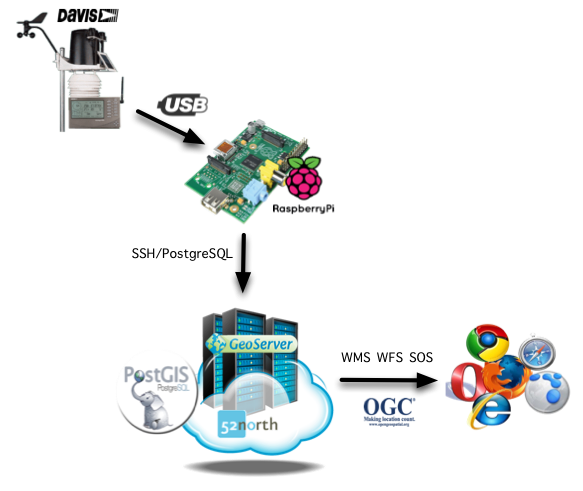
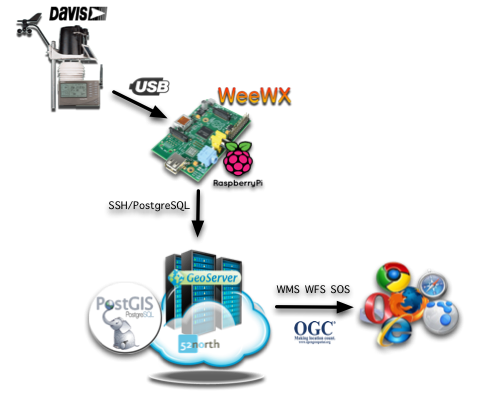
issue #19 more ducmentation

diff --git a/docs/weatherstation.rst b/docs/weatherstation.rst
@@ -3,26 +3,46 @@
 Weather Station
 ===============
 
-As part of the SOSPilot project, the plan is to connect the existing
-Geonovum  `Davis Vantage Pro II Weather station <http://www.davisnet.com/weather/products/vantage-pro-professional-weather-stations.asp>`_
-to the SOS and WMS/WFS servers and public weather services.
-Below the realization and results are described.
+This chapter describes the hard/software setup of a weather station whose measurements are
+to be exposed via OGC protocols like WMS, WFS and in particular SOS.
 
-History
--------
+Introduction
+------------
 
-In 2008/2009 Geonovum had acquired a Davis Vantage Pro II Weather station. This station
-was/is mounted on the roof of Geonovum building. This tsation measures
-barometric pressure, temperature, humidity, rainfall, wind speed and direction. Data from the weather station was extracted and
-published to the 52N SOS. The station is also registered in the national gespatial catalog, Nationaal Georegister (NGR).
+In 2008/2009 Geonovum acquired a
+`Davis Vantage Pro II Weather station <http://www.davisnet.com/weather/products/vantage-pro-professional-weather-stations.asp>`_.
+This station was/is mounted on the roof of Geonovum building. The outside station-sensors measure
+barometric pressure, temperature, humidity, rainfall, wind speed and direction. Data is continuously
+sent (wireless, via RF) to a base station, a.k.a. the "console". The console
+has a `Davis WeatherLink® <http://www.davisnet.com/weather/products/weather-reporting-software.asp>`_
+hard/software add-on that is able to act as a data-logger and provides connectivity over USB.
 
-The results of this project have been described in
+Data from the weather station was extracted and published to the 52N SOS via a special purpose
+PC application. The results of this project have been described in
 a `Geo-Info magazine article (2010-1) <http://www.geo-info.nl/download/?id=15311409&download=1>`_.
+
+As part of the SOSPilot project, we will now "revive" the Davis
+Weather station and connect its data stream to the SOSPilot infrastructure simliar
+to the RIVM AQ datastream. Eventually, the goal is to expose the station weather data to OGC services like
+WMS, WFS and in particular SOS.
+
+As we cannot connect the weather base station (USB),
+directly to the SOSPilot server "in the cloud",
+an intermediate "middleman" hard/software component will be required.
+The main functions of this component are to acquire data from the base station and to
+transform and publish this data to the SOSPilot server (VPS).
+
+To this end a `Raspberry Pi <http://www.raspberrypi.org/>`_ (RPi) microcomputer has been chosen.
+The RPi is a cheap (around $25,-) credit-card-sized microcomputer that can run free OS-es like Linux (`Raspbian <http://www.raspbian.org/>`_,
+a Debian version)
+and allows connectivity to USB, WIFI, GSM etc. The RPi is
+`popular with weather amateurs <https://www.google.nl/search?q=Raspberry+Pi+Weather+Station&oq=Raspberry+Pi+Weather+Station>`_
+(and various other IoT projects as well).
 
 Architecture
 ------------
 
-The overall architecture is depicted in Figure 1 below.
+The overall hard/software architecture is depicted below.
 
 
 .. figure:: _static/weather-hwsw-pictarch.png
@@ -30,67 +50,35 @@ The overall architecture is depicted in Figure 1 below.
 
    *Figure 1 - Global Setup from Weather Station Through OGC Services*
 
-In summary the overall architecture in hard/software is as follows.
+Summarized, the components and their interconnections operate as follows.
+
 The Davis weather station is connected to a `Raspberry Pi <http://www.raspberrypi.org/>`_ (RPi) micro computer via
 USB. The RPi runs the Raspbian OS with the weather data software
-deamon `weewx <http://weewx.com>`_.  ``weewx`` reads out the raw weather from the Davis weather station
-and stores this data locally in a (SQLite)  `weather archive database`.
+`weewx <http://weewx.com>`_.  The weewx daemon reads out raw weather data from the Davis weather station
+and stores this data locally in a (SQLite or MySQL) database. These raw measurements, typically a 5-minute summary
+of multiple samples ("Loop records") are called `archive records`.
 
 An ETL process based on `Stetl <http:/www.stetl.org>`_ transforms and syncs data
 from the `weather archive database` to a remote PostgreSQL server
 in a "Cloud Server" (Ubuntu VPS). The VPS runs GeoServer that serves the weather data directly from the Postgres/PostGIS
 database as WMS, WMS-Time and WFS.
 In addition the VPS runs a Stetl ETL process that transforms and and publishes
-the weather data from PostgreSQL via SOS-T to the 52North Sensor Web Application server.
+the weather data from PostgreSQL using the SOS-T protocol
+to the 52North Sensor Web Application server.
 The latter provides a SOS (Sensor Observation Service). Via the web browser various WMS/WFS
-and SOS client applications
-are invoked.
+and SOS client applications are invoked.
 
 Raspberry Pi
 ------------
 
 A Raspberry Pi will be setup as a headless (no GUI) server. Via a USB Cable the Pi will be connected to the Davis datalogger cable.
 The Pi will run a Debian Linux version (Raspbian) with the free `weewx` weather server and
-archiver. `weewx` will fetch data from the Davis, storing this in MySQL or SQLLite.
-It can also can publish data to community Weather networks like Wunderground.
+archiver. `weewx` will fetch samples from the Davis, storing its summaries regularly (typically every 5 mins) in
+a MySQL or SQLLite `archive table`.
+weewx can also can publish data to community Weather networks like Wunderground.
 
-Raspberry Pi core,
-bijv `RPi Kit van Kiwi Elektronics <http://www.kiwi-electronics.nl/raspberry-pi/board-and-kits/raspberry-pi-model-b-plus-bundel-met-voeding-en-noobs-op-microsd>`_ (EUR 59,95):
-
-* Raspberry Pi Model B+ 512MB
-* transparant Multicomp enclosure
-* 5.2V 2A microUSB power adapter
-* microSD card 32GB - Class 10
-
-User access (but not required once having setup as we access via SSH).
-
-* USB mouse
-* USB keyboard
-* monitor with HDMI input
-* HDMI cable
-
-Mobile networking (not)
-
-* USB 3G Modem - Huawei - most probably E3131 (of Wifi networking)
-
-Wifi Networking:
-
-* Draadloze USB Adapter voor Raspberry `Pi Wi-Pi  <http://www.kiwi-electronics.nl/raspberry-pi/raspberry-pi-accessoires/wi-pi-draadloze-usb-adapter-voor-raspberry-pi>`_ (EUR 18,95).
-
-Connection to Davis Weather Station WeatherLink USB adapter:
-
-* USB Cable (USB A Male B Mini) with ferrite noise suppressor : http://www.allekabels.nl/usb-20-kabel/172/1043120/usb-20-mini-kabel-professioneel.html (EUR 17,95)
-* powered USB hub. Why? See http://www.weewx.com/docs/usersguide.htm#Raspberry_Pi
-
-Software:
-
-* OS: Raspbian Debian Wheezy (sept 2014) - Free
-* Open source software for weather station: `weewx <http://www.weewx.com>`_ with SQLlite  - free
-* `wview`, kan gebruik maken van archive SQLite DB van weewx: http://www.wviewweather.com ??
-
-Best option for now seems to be to use Pi with WIFI i.s.o. mobile data.
-
-See `raspberrypi-install <raspberrypi-install.html>`_ for the basic installation of the RPi for the project.
+See the `raspberrypi-install section <raspberrypi-install.html>`_ for the full hardware setup and software installation
+of the RPi for the project.
 
 Weather Software
 ----------------
